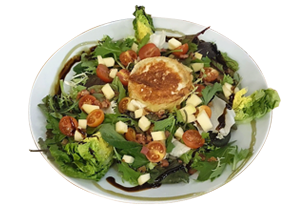
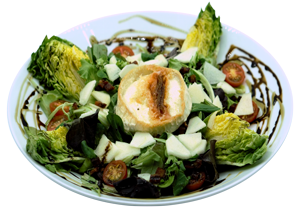
cabra

diff --git a/menu.html b/menu.html
@@ -409,7 +409,7 @@ Tous nos plats sont préparés à l'instant. Détendez-vous et profitez du mome
 <div class="layer show"></div>
 
 <div class="dish-2">
-<div class="dishphoto"><img src="https://akidaniel.github.io/menucatalina/imagenes/dish01.png" alt="Sopa" border="0" ></div>
+<div class="dishphoto"><img src="https://akidaniel.github.io/menucatalina/imagenes/dish15.png" alt="Sopa" border="0" ></div>
 <div><!--<span class="dishnumber">S1</span>--><span class="price">9.80 €</span></div>
 <p class="menuitem plato LES">Mixta</p>
 <p class="menuitem plato CAT">Mixta</p>
@@ -421,7 +421,7 @@ Tous nos plats sont préparés à l'instant. Détendez-vous et profitez du mome
 <p class="descr LFR">Laitue, Tomate, Oignon, Maïs, Carrote et Poivron</p>
 </div>
 
-<div class="dish-2"><div class="dishphoto"><img src="https://akidaniel.github.io/menucatalina/imagenes/dish02.png" alt="Gambas" border="0" style="margin: 0 auto"></div>
+<div class="dish-2"><div class="dishphoto"><img src="https://akidaniel.github.io/menucatalina/imagenes/dish16.png" alt="Gambas" border="0" style="margin: 0 auto"></div>
 <div><!--<span class="dishnumber">S2</span>--><span class="price">10.55 €</span></div>
 <p class="menuitem plato LES">Pollo</p>
 <p class="menuitem plato CAT">Pollastre</p>
@@ -436,7 +436,7 @@ Tous nos plats sont préparés à l'instant. Détendez-vous et profitez du mome
 </div>
 
 <div class="flexbox lista"><div class="layer show"></div>
-<div class="dish-2"><div class="dishphoto"><img src="https://akidaniel.github.io/menucatalina/imagenes/dish03.png" alt=" "width=" "border="0" style="margin: 0 auto"></div>
+<div class="dish-2"><div class="dishphoto"><img src="https://akidaniel.github.io/menucatalina/imagenes/dish17.png" alt=" "width=" "border="0" style="margin: 0 auto"></div>
 <div><!--<span class="dishnumber">S3</span>--><span class="price">9.95 €</span></div>
 <p class="menuitem plato LES CAT LUK LFR">Burrata</p>
 <p class="descr LES">Tomate, Rúcula, Albahaca y Burrata Italiana</p>
@@ -445,7 +445,7 @@ Tous nos plats sont préparés à l'instant. Détendez-vous et profitez du mome
 <p class="descr LFR">Tomate, Roquette, Basilic et Burrata Italianne </p>
 </div>
  
-<div class="dish-2"><div class="dishphoto"><img src="https://akidaniel.github.io/menucatalina/imagenes/dish04.png" alt="Caprese" border="0" style="margin: 0 auto"></div>
+<div class="dish-2"><div class="dishphoto"><img src="https://akidaniel.github.io/menucatalina/imagenes/dish18.png" alt="Caprese" border="0" style="margin: 0 auto"></div>
 <div><!--<span class="dishnumber">S4</span>--><span class="price">9.90 €</span></div>
 <p class="menuitem plato LES CAT LUK LFR">Catalina</p>
 <p class="descr LES">Lechuga, Tomate, Fruta de Estación y Naranja. (modena)</p>
@@ -457,7 +457,7 @@ Tous nos plats sont préparés à l'instant. Détendez-vous et profitez du mome
 
 
 <div class="flexbox lista"><div class="layer show"></div>
-<div class="dish-2"><div class="dishphoto"><img src="https://akidaniel.github.io/menucatalina/imagenes/dish05.png" alt=" "width=" "border="0" style="margin: 0 auto"></div>
+<div class="dish-2"><div class="dishphoto"><img src="https://akidaniel.github.io/menucatalina/imagenes/dish19.png" alt=" "width=" "border="0" style="margin: 0 auto"></div>
 <div><!--<span class="dishnumber">S5</span>--><span class="price">9.50 €</span></div>
 <p class="menuitem plato LES">Atún</p>
 <p class="menuitem plato CAT">Tonyna</p>
@@ -469,7 +469,7 @@ Tous nos plats sont préparés à l'instant. Détendez-vous et profitez du mome
 <p class="descr LFR">Tomate, Thon, Oignon et Olives Noires</p>
 </div>
  
-<div class="dish-2"><div class="dishphoto"><img src="https://akidaniel.github.io/menucatalina/imagenes/dish06.png" alt=" "width=" "border="0" style="margin: 0 auto"></div>
+<div class="dish-2"><div class="dishphoto"><img src="https://akidaniel.github.io/menucatalina/imagenes/dish20.png" alt=" "width=" "border="0" style="margin: 0 auto"></div>
 <div><!--<span class="dishnumber">S6</span>--><span class="price">10.75 €</span></div>
 <p class="menuitem plato LES">Cabra</p>
 <p class="menuitem plato CAT">Cabra</p>
@@ -483,7 +483,7 @@ Tous nos plats sont préparés à l'instant. Détendez-vous et profitez du mome
 </div>
 
 <div class="flexbox lista"><div class="layer show"></div>
-<div class="dish-2"><div class="dishphoto"><img src="https://akidaniel.github.io/menucatalina/imagenes/dish07.png" alt=" "width=" "border="0" style="margin: 0 auto"></div>
+<div class="dish-2"><div class="dishphoto"><img src="https://akidaniel.github.io/menucatalina/imagenes/dish21.png" alt=" "width=" "border="0" style="margin: 0 auto"></div>
 <div><!--<span class="dishnumber">S7</span>--><span class="price">9.55 €</span></div>
 <p class="menuitem plato LES">Rúcula</p>
 <p class="menuitem plato CAT">Ruca</p>
@@ -512,7 +512,7 @@ Tous nos plats sont préparés à l'instant. Détendez-vous et profitez du mome
 <div class="layer show"></div>
 
 <div class="dish-2">
-<div class="dishphoto"><img src="https://akidaniel.github.io/menucatalina/imagenes/dish01.png" alt="Sopa" border="0" ></div>
+<div class="dishphoto"><img src="https://akidaniel.github.io/menucatalina/imagenes/dish22.png" alt="Panzerotti" border="0" ></div>
 <div><!--<span class="dishnumber">P01</span>--><span class="price">10.50 €</span></div>
 <p class="menuitem plato LES CAT LUK LFR">Panzerotti</p>
 <p class="descr LES">Ricotta y Espinaca con esparragos y mantequilla trufada</p>
@@ -521,7 +521,7 @@ Tous nos plats sont préparés à l'instant. Détendez-vous et profitez du mome
 <p class="descr LFR">Ricotta et Épinards avec asperges et beurre truffé</p>
 </div>
 
-<div class="dish-2"><div class="dishphoto"><img src="https://akidaniel.github.io/menucatalina/imagenes/dish02.png" alt="Gambas" border="0" style="margin: 0 auto"></div>
+<div class="dish-2"><div class="dishphoto"><img src="https://akidaniel.github.io/menucatalina/imagenes/dish23.png" alt="Raviolaccio" border="0" style="margin: 0 auto"></div>
 <div><!--<span class="dishnumber">P02</span>--><span class="price">10.95 €</span></div>
 <p class="menuitem plato LES CAT LUK LFR">Raviolaccio</p>
 <p class="descr LES">Carne a la brasa con salsa napolitana</p>
@@ -534,7 +534,7 @@ Tous nos plats sont préparés à l'instant. Détendez-vous et profitez du mome
 <div class="flexbox lista">
 <div class="layer show"></div>
 <div class="dish-2">
-<div class="dishphoto"><img src="https://akidaniel.github.io/menucatalina/imagenes/dish03.png" alt=" "width=" "border="0" style="margin: 0 auto"></div>
+<div class="dishphoto"><img src="https://akidaniel.github.io/menucatalina/imagenes/dish24.png" alt="Spiga" width=" "border="0" style="margin: 0 auto"></div>
 <div><!--<span class="dishnumber">P03</span>--><span class="price">13.50 €</span></div>
 <p class="menuitem plato LES CAT LUK LFR">Spiga</p>
 <p class="descr LES">Trufa con salsa de setas</p>
@@ -543,7 +543,7 @@ Tous nos plats sont préparés à l'instant. Détendez-vous et profitez du mome
 <p class="descr LFR">Truffe avec sauce aux champignons</p>
 </div>
  
-<div class="dish-2"><div class="dishphoto"><img src="https://akidaniel.github.io/menucatalina/imagenes/dish04.png" alt="Caprese" border="0" style="margin: 0 auto"></div>
+<div class="dish-2"><div class="dishphoto"><img src="https://akidaniel.github.io/menucatalina/imagenes/dish25.png" alt="Fiocchi" border="0" style="margin: 0 auto"></div>
 <div><!--<span class="dishnumber">P04</span>--><span class="price">10.50 €</span></div>
 <p class="menuitem plato LES CAT LUK LFR">Fiocchi</p>
 <p class="descr LES">Queso y Pera con salsa gorgonzola</p>
@@ -555,7 +555,7 @@ Tous nos plats sont préparés à l'instant. Détendez-vous et profitez du mome
 
 
 <div class="flexbox lista"><div class="layer show"></div>
-<div class="dish-2"><div class="dishphoto"><img src="https://akidaniel.github.io/menucatalina/imagenes/dish05.png" alt=" "width=" "border="0" style="margin: 0 auto"></div>
+<div class="dish-2"><div class="dishphoto"><img src="https://akidaniel.github.io/menucatalina/imagenes/dish26.png" alt="Spaghetti" width=" "border="0" style="margin: 0 auto"></div>
 <div><!--<span class="dishnumber">P05</span>--><span class="price">10.50 €</span></div>
 <p class="menuitem plato LES CAT LUK LFR">Spaghetti</p>
 <p class="descr LES">Con Verduras a la brasa y Parmesano</p>
@@ -564,7 +564,7 @@ Tous nos plats sont préparés à l'instant. Détendez-vous et profitez du mome
 <p class="descr LFR">Avec Légumes au Grill et Fromage Parmesan</p>
 </div>
  
-<div class="dish-2"><div class="dishphoto"><img src="https://akidaniel.github.io/menucatalina/imagenes/dish06.png" alt=" "width=" "border="0" style="margin: 0 auto"></div>
+<div class="dish-2"><div class="dishphoto"><img src="https://akidaniel.github.io/menucatalina/imagenes/dish27.png" alt="Lasaña de Verduras" width=" "border="0" style="margin: 0 auto"></div>
 <div><!--<span class="dishnumber">P06</span>--><span class="price">12.50 €</span></div>
 <p class="menuitem plato LES">Lasaña de Verduras</p>
 <p class="menuitem plato CAT">Lasanya de Verdures</p>
@@ -575,7 +575,7 @@ Tous nos plats sont préparés à l'instant. Détendez-vous et profitez du mome
 </div>
 
 <div class="flexbox lista"><div class="layer show"></div>
-<div class="dish-2"><div class="dishphoto"><img src="https://akidaniel.github.io/menucatalina/imagenes/dish07.png" alt=" "width=" "border="0" style="margin: 0 auto"></div>
+<div class="dish-2"><div class="dishphoto"><img src="https://akidaniel.github.io/menucatalina/imagenes/dish28.png" alt="Lasaña de Carne" width=" "border="0" style="margin: 0 auto"></div>
 <div><!--<span class="dishnumber">P07</span>--><span class="price">12.50 €</span></div>
 <p class="menuitem plato LES">Lasaña de Carne</p>
 <p class="menuitem plato CAT">Lasanya de Carn</p>
@@ -584,7 +584,7 @@ Tous nos plats sont préparés à l'instant. Détendez-vous et profitez du mome
 <p class="descr LES CAT LUK LFR">(20 min.)</p>
   </div>
  
-<div class="dish-2"><div class="dishphoto"><img src="https://akidaniel.github.io/menucatalina/imagenes/dish08.png" alt=" "width=" "border="0" style="margin: 0 auto"></div>
+<div class="dish-2"><div class="dishphoto"><img src="https://akidaniel.github.io/menucatalina/imagenes/dish29.png" alt="Gnocchi" width=" "border="0" style="margin: 0 auto"></div>
 <div><!--<span class="dishnumber">P08</span>--><span class="price">9.95 €</span></div>
 <p class="menuitem plato LES CAT LUK LFR">Gnocchi</p>
 <p class="descr LES CAT LUK LFR">Bolognesa – Napolitana – Pesto</p>
@@ -592,13 +592,13 @@ Tous nos plats sont préparés à l'instant. Détendez-vous et profitez du mome
 </div>
 
 <div class="flexbox lista"><div class="layer show"></div>
-<div class="dish-2"><div class="dishphoto"><img src="https://akidaniel.github.io/menucatalina/imagenes/dish09.png" alt=" "width=" "border="0" style="margin: 0 auto"></div>
+<div class="dish-2"><div class="dishphoto"><img src="https://akidaniel.github.io/menucatalina/imagenes/dish30.png" alt="Tagliatelle" width=" "border="0" style="margin: 0 auto"></div>
 <div><!--<span class="dishnumber">P09</span>--><span class="price">9.95 €</span></div>
 <p class="menuitem plato LES CAT LUK LFR">Tagliatelle</p>
 <p class="descr LES CAT LUK LFR">Bolognesa – Napolitana – Pesto</p>
 </div>
  
-<div class="dish-2"><div class="dishphoto"><img src="https://akidaniel.github.io/menucatalina/imagenes/dish10.png" alt=" "width=" "border="0" style="margin: 0 auto"></div>
+<div class="dish-2"><div class="dishphoto"><img src="https://akidaniel.github.io/menucatalina/imagenes/dish31.png" alt="Taglioline Verdi" width=" "border="0" style="margin: 0 auto"></div>
 <div><!--<span class="dishnumber">P10</span>--><span class="price">9.95 €</span></div>
 <p class="menuitem plato LES CAT LUK LFR">Taglioline Verdi</p>
 <p class="descr LES CAT LUK LFR">Bolognesa – Napolitana – Pesto</p>
